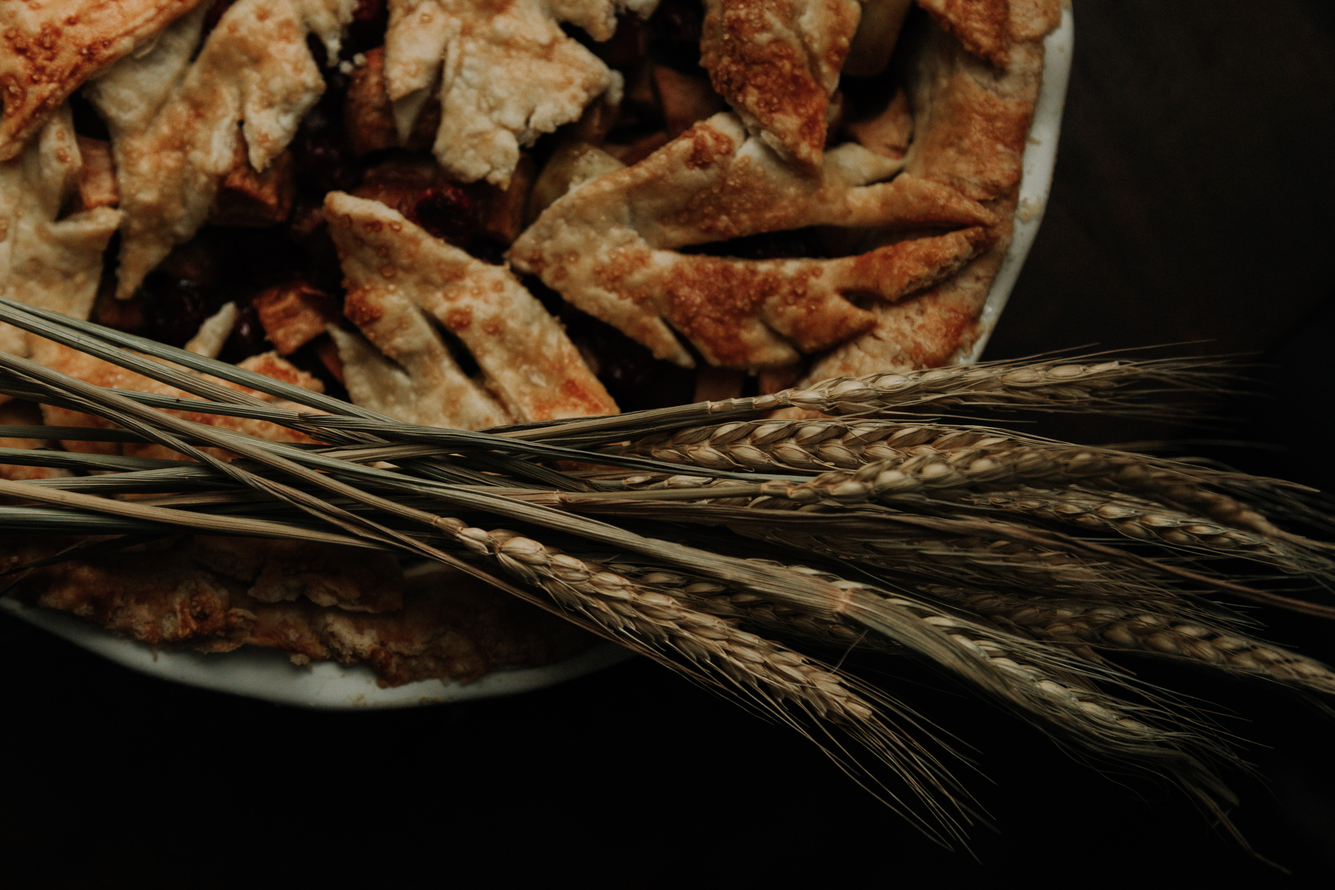
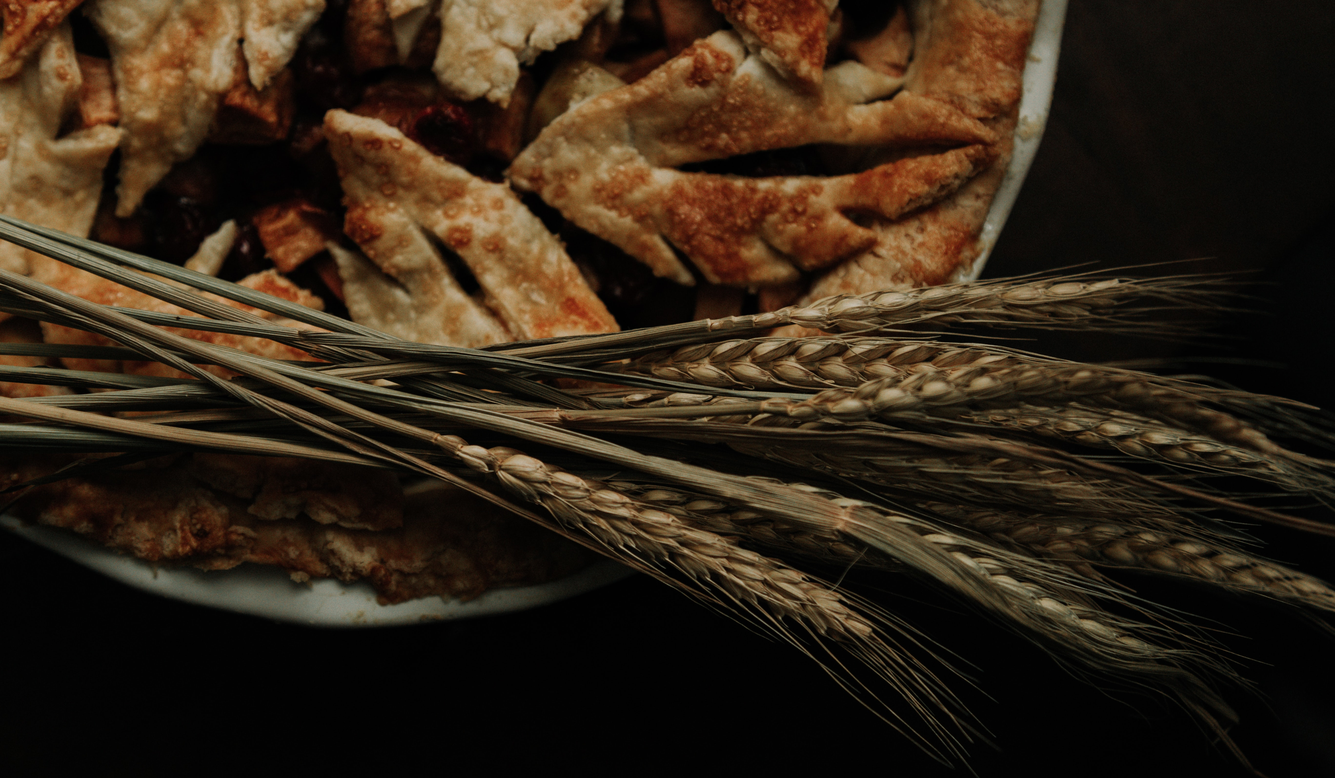
Resizing images, adding adress to the footer

diff --git a/src/components/FooterSection.js b/src/components/FooterSection.js
@@ -1,12 +1,13 @@
 import React from 'react';
-import Wrapper from '../styles/Wrapper';
+
 
 import styled from 'styled-components';
 
 const FooterSectionContainer = styled.div`
-    padding: 1.5em;
-    padding-bottom: 40px;
+    padding-bottom: 30px;
     border-bottom: 1px solid ${props => props.theme.lightGrey};
+    margin-bottom: 20px;
+    flex-basis: 45%;
     h2{
         font-family: 'Open Sans Bold';
         font-size: 1.23em;
@@ -23,25 +24,28 @@ const FooterSectionContainer = styled.div`
             color: ${props => props.theme.grey};
         }
     }
+
+    @media (min-width: 730px){
+        border: none;
+    }
+    @media (min-width: 980px){
+        flex-basis: 24%;
+    }
 `;
 
 
-const FooterSection = ({ title, linksArray }) => {
+const FooterSection = ({ title, linksArray = [] }) => {
     return (
-        <Wrapper>
-            <FooterSectionContainer>
-                <h2>{title}</h2>
-                <ul>
-                    {linksArray.map((link, i) => {
-                        return (
-                            <li key={i}><a href="">{link}</a></li>
-                        )
-                    })}
-                </ul>
-            </FooterSectionContainer>
-
-
-        </Wrapper>
+        <FooterSectionContainer>
+            <h2>{title}</h2>
+            <ul>
+                {linksArray.map((link, i) => {
+                    return (
+                        <li key={i}><a href="">{link}</a></li>
+                    )
+                })}
+            </ul>
+        </FooterSectionContainer>
     )
 }
 

diff --git a/src/components/Footer.js b/src/components/Footer.js
@@ -1,5 +1,23 @@
 import React from 'react';
 import FooterSection from '../components/FooterSection';
+import FooterContact from '../components/FooterContact';
+import styled from 'styled-components';
+import Wrapper from '../styles/Wrapper';
+import FooterAdress from '../components/FooterAdress';
+
+const FooterContainer = styled.div`
+    padding: 30px;
+    @media (min-width: 730px){
+        display: flex;
+        flex-direction: row;
+        flex-shrink: 0;
+        flex-wrap: wrap;
+        flex-grow: 0;
+    }
+    @media (min-width: 980px){
+        justify-content: space-between;
+    }
+`;
 
 const links = [
     'Etiam feugiat condimentum',
@@ -10,12 +28,16 @@ const links = [
 ]
 const Footer = () => {
     return (
-        <>
-            <FooterSection title="Random Stuff" linksArray={links} />
-            <FooterSection title="Random Stuff" linksArray={links} />
-            <FooterSection title="Random Stuff" linksArray={links} />
+        <Wrapper>
+            <FooterContainer>
+                <FooterSection title="Random Stuff" linksArray={links} />
+                <FooterSection title="Random Stuff" linksArray={links} />
+                <FooterSection title="Random Stuff" linksArray={links} />
+                <FooterContact />
+            </FooterContainer>
+            <FooterAdress />
+        </Wrapper>
 
-        </>
     )
 }
 

diff --git a/src/components/FooterAdress.js b/src/components/FooterAdress.js
@@ -1,0 +1,51 @@
+import React from 'react';
+import styled from 'styled-components';
+
+import Wrapper from '../styles/Wrapper';
+
+const FooterAdressContainer = styled.div`
+    /* min-height: 120px; */
+    display: flex;
+    flex-direction: column;
+    justify-content: start;
+    align-items: flex-start;
+    padding: 0 30px 30px 30px;
+    span {
+        font-family: 'Open Sans Light';
+        font-weight: 300;
+        font-size: 1em;
+        color: #B0B7BC;
+        padding: 0.3em 1em;
+    }
+
+    @media (min-width: 730px){
+        justify-content: center;
+        align-items: center;
+    }
+
+    @media (min-width: 980px){
+        flex-direction: row;
+        justify-content: center;
+        align-items: flex-start;
+        span {
+            &:nth-child(2){
+                border-left: 1px solid #B0B7BC;
+                border-right: 1px solid #B0B7BC;
+        }
+        }
+    }
+    
+`;
+
+const FooterAdress = () => {
+    return (
+        <FooterAdressContainer>
+            <span>© Untitled. All rights reserved</span>
+            <span>Design: HTML5 UP</span>
+            <span>Demo Images: Unsplash</span>
+        </FooterAdressContainer>
+
+    )
+};
+
+export default FooterAdress;

diff --git a/src/components/FooterContact.js b/src/components/FooterContact.js
@@ -1,0 +1,36 @@
+import React from 'react';
+import Wrapper from '../styles/Wrapper';
+
+import styled from 'styled-components';
+
+const FooterSectionContainer = styled.div`
+    padding-bottom: 30px;
+    border-bottom: 1px solid ${props => props.theme.lightGrey};
+    margin-bottom: 20px;
+    flex-basis: 45%;
+    h2 {
+        font-family: 'Open Sans Bold';
+        font-size: 1.23em;
+        color: ${props => props.theme.black};
+        margin-bottom: 1em;
+    }
+
+    @media (min-width: 730px){
+        border: none;
+    }
+    @media (min-width: 980px){
+        flex-basis: 24%;
+    }
+`;
+
+
+const FooterSection = ({ title, linksArray = [] }) => {
+    return (
+        <FooterSectionContainer>
+            <h2>Contact Us</h2>
+            <p> place for icons</p>
+        </FooterSectionContainer>
+    )
+}
+
+export default FooterSection;
